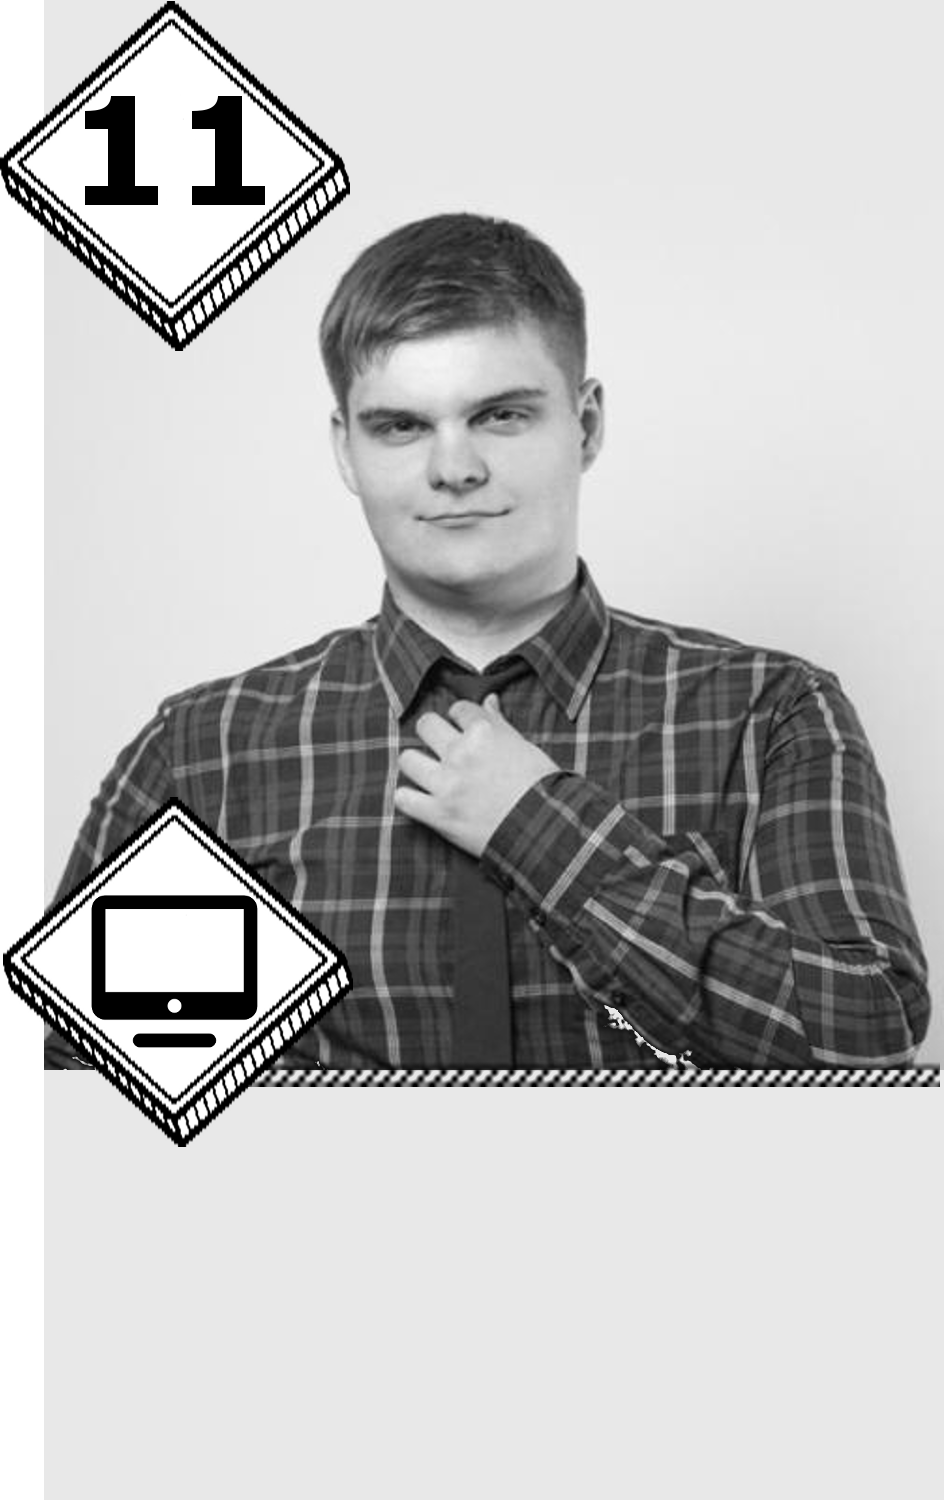
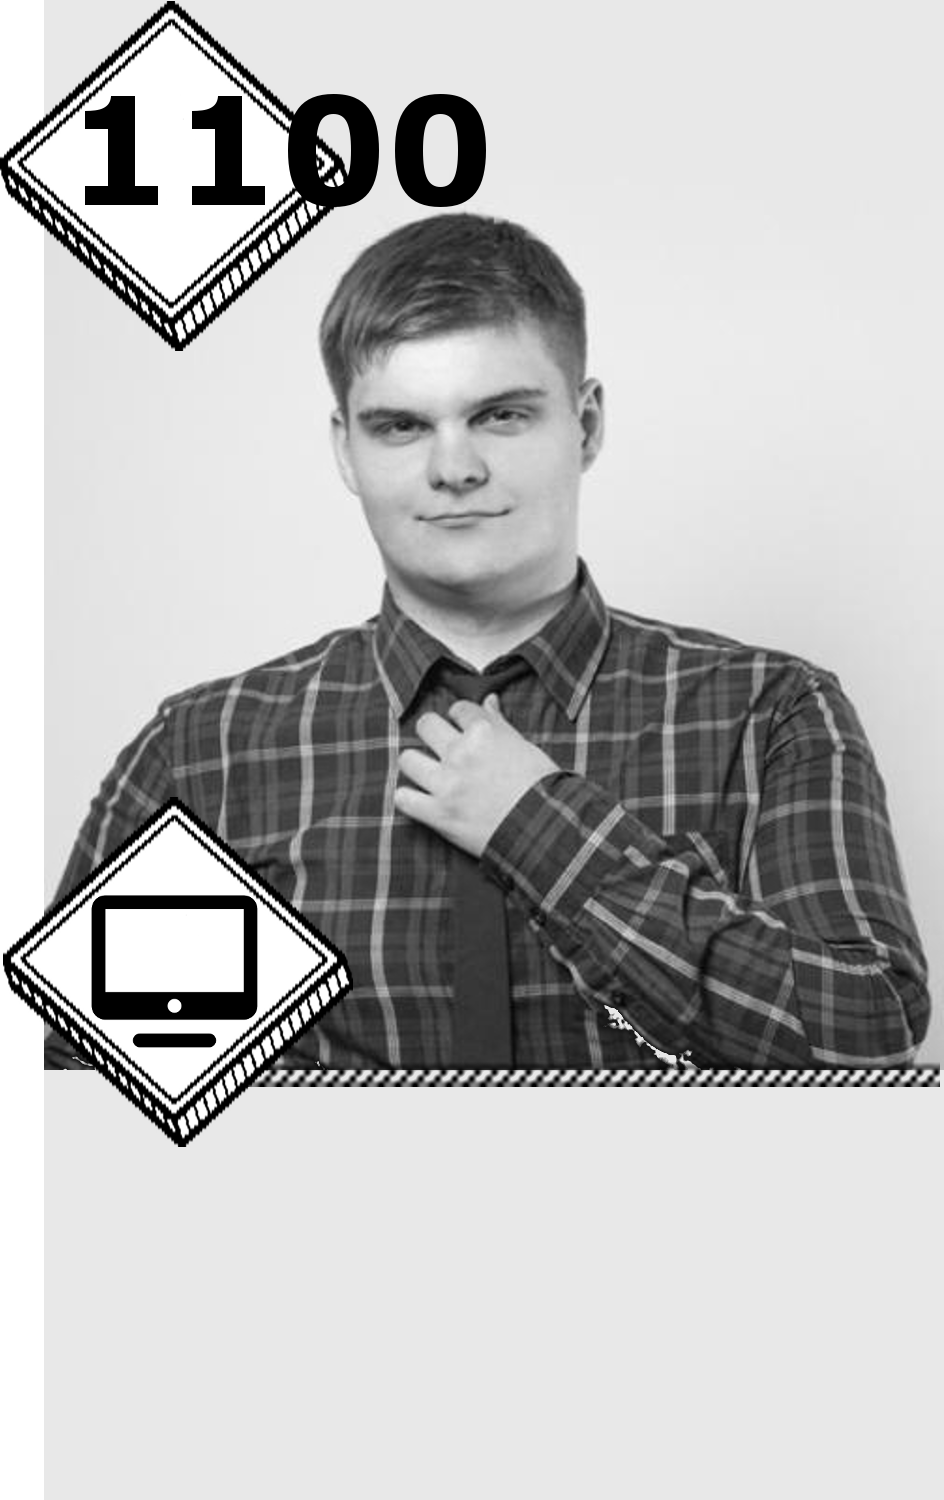
card6

Changed region(s): [[0.3072, 0.0613, 0.5222, 0.1533]]

diff --git a/public/views/game-view/game-strategy/singleplayer.js b/public/views/game-view/game-strategy/singleplayer.js
@@ -225,17 +225,17 @@ export default class SinglePlayerStrategy extends Strategy {
         this.createCard('b', 8, ind, array);  ind++;
         this.createCard('b', 8, ind, array);  ind++;
         this.createCard('b', 9, ind, array);  ind++;
-        this.createCard('b', 11, ind, array);  ind++;
+        this.createCard('b', 1100, ind, array);  ind++;
         this.createCard('b', 12, ind, array);  ind++;
         this.createCard('b', 12, ind, array);  ind++;
 
-        this.createCard('b', 1, ind, array);  ind++;
-        this.createCard('b', 2, ind, array);  ind++;
-        this.createCard('b', 5, ind, array);  ind++;
-        this.createCard('b', 7, ind, array);  ind++;
-        this.createCard('b', 9, ind, array);  ind++;
-        this.createCard('b', 10, ind, array);  ind++;
-        this.createCard('b', 11, ind, array);  ind++;
+        this.createCard('c', 1, ind, array);  ind++;
+        this.createCard('c', 2, ind, array);  ind++;
+        this.createCard('c', 5, ind, array);  ind++;
+        this.createCard('c', 7, ind, array);  ind++;
+        this.createCard('c', 9, ind, array);  ind++;
+        this.createCard('c', 10, ind, array);  ind++;
+        this.createCard('c', 11, ind, array);  ind++;
 
         this.createCard('d', 1, ind, array);  ind++;
         this.createCard('d', 2, ind, array);  ind++;

diff --git a/server/game.js b/server/game.js
@@ -289,26 +289,26 @@ class Game {
         ind++;
         this.createCard('b', 9, ind, array);
         ind++;
-        this.createCard('b', 11, ind, array);
+        this.createCard('b', 1100, ind, array);
         ind++;
         this.createCard('b', 12, ind, array);
         ind++;
         this.createCard('b', 12, ind, array);
         ind++;
 
-        this.createCard('b', 1, ind, array);
+        this.createCard('c', 1, ind, array);
         ind++;
-        this.createCard('b', 2, ind, array);
+        this.createCard('c', 2, ind, array);
         ind++;
-        this.createCard('b', 5, ind, array);
+        this.createCard('c', 5, ind, array);
         ind++;
-        this.createCard('b', 7, ind, array);
+        this.createCard('c', 7, ind, array);
         ind++;
-        this.createCard('b', 9, ind, array);
+        this.createCard('c', 9, ind, array);
         ind++;
-        this.createCard('b', 10, ind, array);
+        this.createCard('c', 10, ind, array);
         ind++;
-        this.createCard('b', 11, ind, array);
+        this.createCard('c', 11, ind, array);
         ind++;
 
         this.createCard('d', 1, ind, array);
